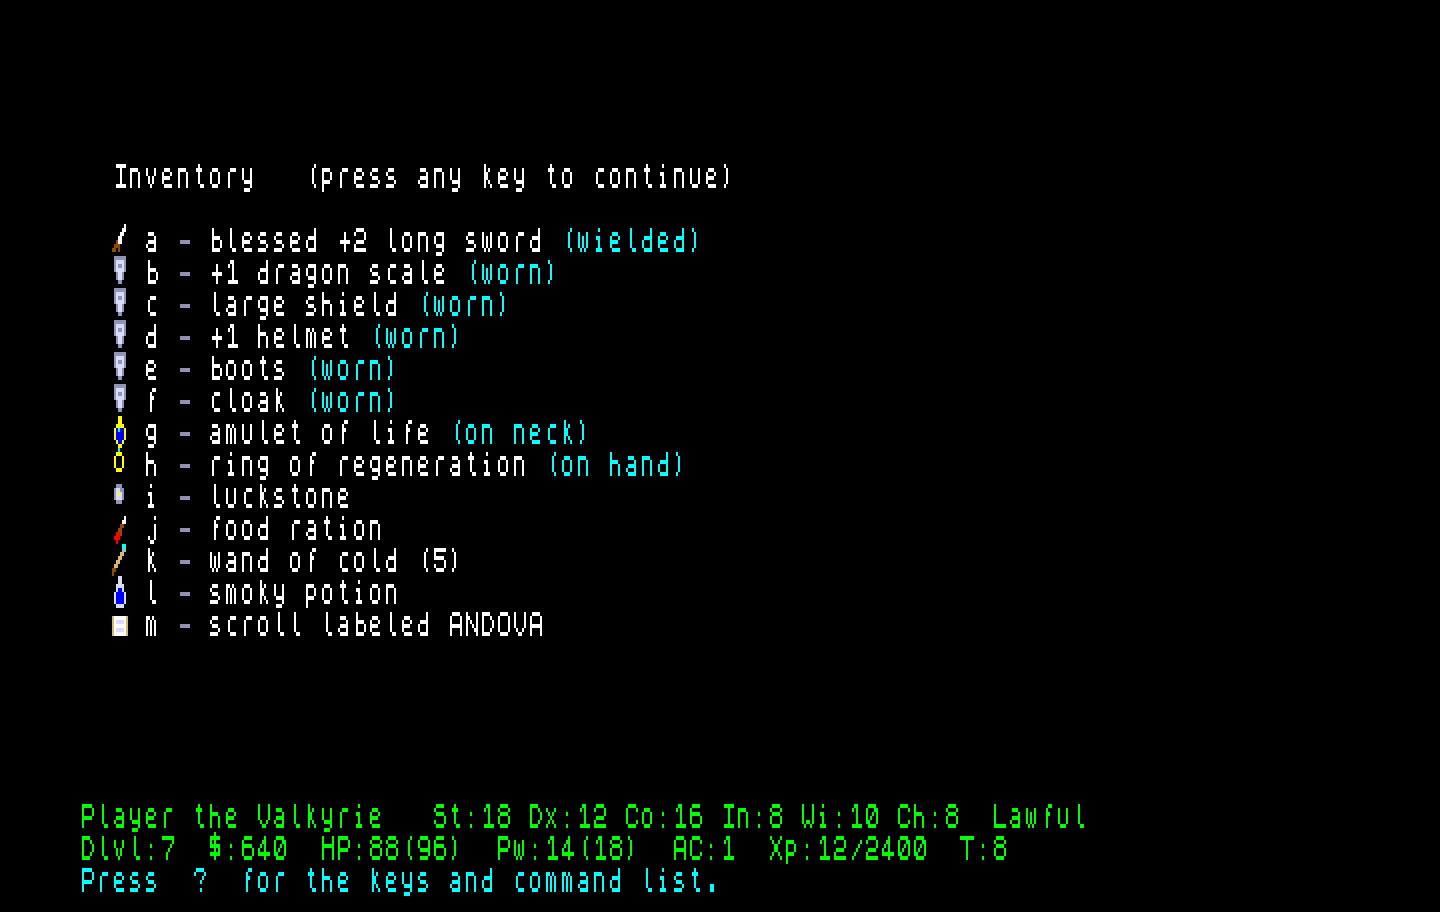
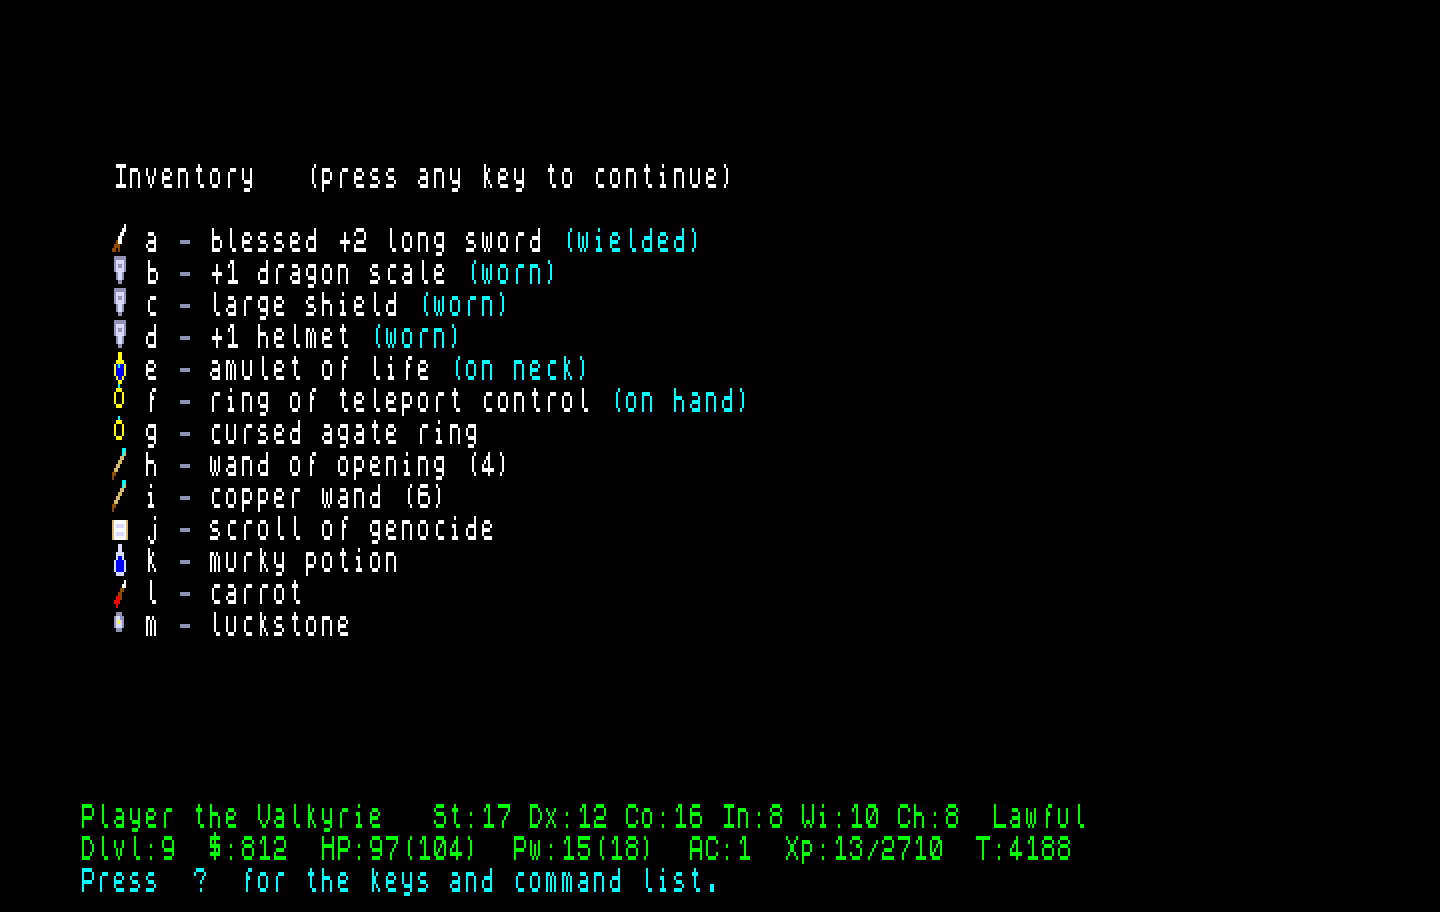
1.4.0: the release notes and a fresh inventory shot
CHANGELOG's [Unreleased] entry becomes [1.4.0] -- 2026-09-22.

The README's inventory screenshot carries the release, as 1.3.1's did: a
ring of teleport control on the hand beside a cursed agate ring and a copper
wand that are still only their looks, a wand of opening, a scroll of
genocide, a murky potion and a carrot. Staged over ZRCP on the Next at
Dlvl 9, the helmet put on with W so the game itself recomputed AC and
ring_fx; cropped and doubled exactly like the old shot (its help line
matches pixel for pixel). The map tiles did not change in 1.4, so the other
three shots stand.

Release binaries rebuilt from ce240ba's source and smoke-tested on both
targets: title, a five-level descent, a save/restore round trip.

diff --git a/README.md b/README.md
@@ -310,9 +310,9 @@ used to emit one and no longer does.
 
 Walk into a monster to attack it; walk over gold to pick it up.
 
-![The NextHack inventory screen: a blessed +2 long sword (wielded) above a full armour set — +1 dragon scale, large shield, +1 helmet, boots and cloak, all worn — with the amulet of life on the neck, the ring of regeneration on the hand, the luckstone, a food ration, a charged wand of cold and an unidentified potion and scroll.](docs/inventory.png)
+![The NextHack inventory screen: a blessed +2 long sword (wielded), +1 dragon scale, large shield and +1 helmet (worn), the amulet of life on the neck and a ring of teleport control on the hand — then a cursed agate ring and a copper wand (6) still known only by their looks, a wand of opening (4), a scroll of genocide, a murky potion, a carrot and the luckstone.](docs/inventory.png)
 
-*The inventory screen (`i`): a whole armour set worn a piece at a time, enchantment, blessed/cursed state, unidentified appearances and wand charges — everything in use is flagged, down to what is round your neck.*
+*The inventory screen (`i`): an armour set worn a piece at a time, enchantment, blessed/cursed state and wand charges, everything in use flagged. Rings and wands you have not learned yet show only this game's look — that agate ring is cursed, and nothing yet says what it does.*
 
 ## Map & item tiles
 

diff --git a/CHANGELOG.md b/CHANGELOG.md
@@ -8,7 +8,7 @@ Every release ships two binaries — `nexthack.nex` (ZX Spectrum Next) and
 `nexthack128.tap` (ZX Spectrum 128K) — on the
 [Releases](https://github.com/lrrosa/nexthack/releases) page.
 
-## [Unreleased]
+## [1.4.0] — 2026-09-22
 
 **Seventeen new things to find, and a reason not to trust them.** Rings and
 wands go unidentified; seven rings, three wands, four scrolls, two potions and
@@ -72,6 +72,9 @@ already had, because in NetHack the interactions are the content.
   types, which widens the identification bitmap, and the genocide mask joined
   the file. The game names the old save and asks before deleting it — answer
   `n` and it stays for the 1.3 binary.
+- A fresh inventory screenshot in the README carries the release: a ring of
+  teleport control on the hand beside a cursed ring and a wand that are still
+  only their looks, a wand of opening, a scroll of genocide and a carrot.
 
 ### Fixed
 - **Putting on an amulet took two turns.** The dispatcher charged one and the
